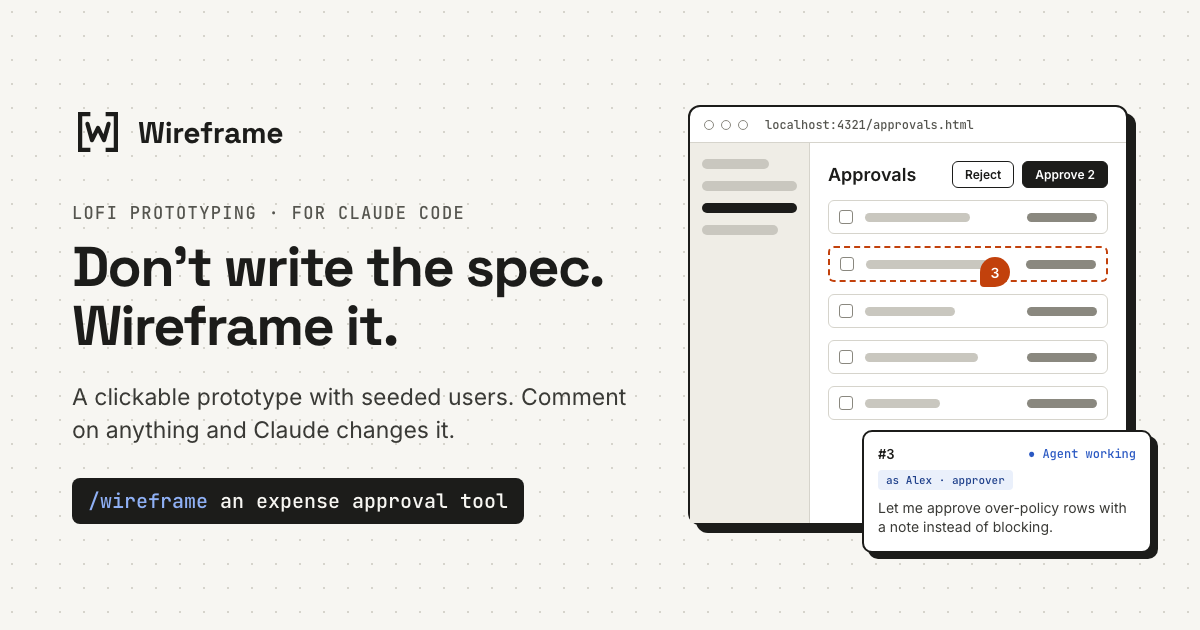
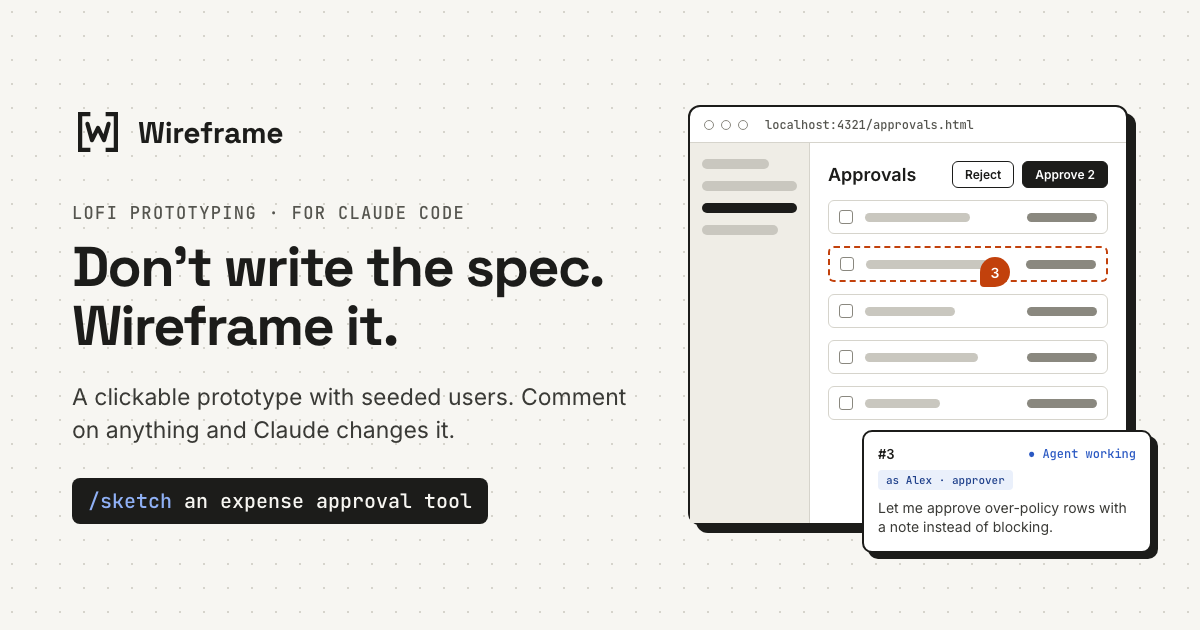
Rename the skill to sketch: /wireframe:sketch, typed as /sketch
The plugin and its only skill were both called wireframe, so the skill
showed up as /wireframe:wireframe. The skill is now "sketch", which
reads as a verb with a brief: /sketch an expense approval tool.

Every /wireframe command in the README, site, OG card, plugin
descriptions, installers, harness hints, templates and the headless
agent prompt now says /sketch. The skill still triggers on the old
/wireframe. wf docs reads from skills/sketch; the doctor accepts a
hand-copied skill under either name.

Changed region(s): [[0.0617, 0.754, 0.4625, 0.8444]]

diff --git a/site/index.html b/site/index.html
@@ -54,14 +54,14 @@
   </div>
   <div class="hero-row">
     <div class="hero-copy">
-      <p class="lead">A clickable wireframe explains an idea better than pages of requirements, and changing it is cheap. Type <span class="kbd">/wireframe</span> and a brief: Claude builds a working LoFi prototype with test users you can sign in as. Iterate with comments until everyone agrees, then spec it your way and design the HiFi screens.</p>
+      <p class="lead">A clickable wireframe explains an idea better than pages of requirements, and changing it is cheap. Type <span class="kbd">/sketch</span> and a brief: Claude builds a working LoFi prototype with test users you can sign in as. Iterate with comments until everyone agrees, then spec it your way and design the HiFi screens.</p>
       <div class="ctas">
         <a class="btn pri" href="#install">Get started</a>
         <a class="btn sec" href="library/">Browse the component library →</a>
       </div>
     </div>
     <div class="hero-term">
-<pre class="code" aria-label="Example session"><span class="p">›</span> /wireframe an expense approval tool for small finance teams
+<pre class="code" aria-label="Example session"><span class="p">›</span> /sketch an expense approval tool for small finance teams
 <span class="d">  ◇ Planning 6 screens · 3 collections · 6 users</span>
 <span class="d">  ◇ Seeding: empty, submitter, approver, admin, trial, viewer</span>
 <span class="d">  ◇ Building with the wf library · lint passed</span>
@@ -127,7 +127,7 @@
   <div class="wrap pad stack">
     <div class="intro"><span class="eyebrow">How it works</span><h2>From a brief to an agreed wireframe, then on to your spec.</h2></div>
     <div class="grid">
-      <div class="card step"><span class="num">01 · Brief</span><h3>/wireframe &lt;what you want&gt;</h3><p>A sentence is enough. If the brief is truly ambiguous, Claude asks one round of short questions. Otherwise it decides and writes its assumptions down.</p></div>
+      <div class="card step"><span class="num">01 · Brief</span><h3>/sketch &lt;what you want&gt;</h3><p>A sentence is enough. If the brief is truly ambiguous, Claude asks one round of short questions. Otherwise it decides and writes its assumptions down.</p></div>
       <div class="card step"><span class="num">02 · Build</span><h3>Working, not pictures</h3><p>Claude plans the screens, the data and the test users, then builds them from the wf library. Forms save, lists filter, permissions apply and every screen has its empty state.</p></div>
       <div class="card step agent"><span class="num">03 · Iterate</span><h3>Prompt or comment</h3><p>Share it, click through it, press C and comment on anything. The agent changes it while you watch. Repeat until everyone agrees.</p></div>
       <div class="card step"><span class="num">04 · Hand over</span><h3>Spec it your way</h3><p>The screens and WIREFRAME.md feed whatever you use next: a plain document, Spec Kit, OpenSpec or your team’s template. Designers get the agreed screens as the HiFi brief.</p></div>
@@ -165,7 +165,7 @@
     <div class="flow">
       <div><span class="k" style="color:var(--cmt-light)">1 · In the browser</span><b>Press C, click, write</b><span>The cursor turns into a speech bubble. Tick “Send to coding agent” and an orange pin marks the spot.</span></div>
       <div><span class="k">2 · On your computer</span><b>The wf helper queues it</b><span>Every comment is saved with the project. Ticked ones go to the agent’s inbox.</span></div>
-      <div style="border-color:var(--agent-light)"><span class="k" style="color:var(--agent-light)">3 · Live, on the comment</span><b>Watch the agent work</b><span>Your /wireframe session picks it up. If none is open, a short background run does. Either way, the steps stream onto the comment.</span></div>
+      <div style="border-color:var(--agent-light)"><span class="k" style="color:var(--agent-light)">3 · Live, on the comment</span><b>Watch the agent work</b><span>Your /sketch session picks it up. If none is open, a short background run does. Either way, the steps stream onto the comment.</span></div>
       <div><span class="k" style="color:var(--ok)">4 · Back on screen</span><b>Reload, reply, resolved</b><span>The page refreshes, the agent replies and the pin resolves. Every thread stays under Threads (T).</span></div>
     </div>
 <pre class="code" style="background:#2A2A27;font-size:13px">── Comment #3 · working ─────────────────────────
@@ -227,7 +227,7 @@ Let me approve over-policy rows with a note instead of blocking.
     <p class="lead">No npm installs, build tools or databases. Prototypes are plain HTML files in a folder. If your computer is missing anything, Claude explains it in one sentence and sets it up after you say yes.</p>
   </div>
   <div class="setup">
-    <div class="soft"><span class="tick" aria-hidden="true"><svg width="12" height="12" viewBox="0 0 24 24" fill="none" stroke="currentColor" stroke-width="3"><path d="M5 12.5l4.5 4.5L19 7"/></svg></span><div><b>Claude Code</b><span>Where you type /wireframe</span></div></div>
+    <div class="soft"><span class="tick" aria-hidden="true"><svg width="12" height="12" viewBox="0 0 24 24" fill="none" stroke="currentColor" stroke-width="3"><path d="M5 12.5l4.5 4.5L19 7"/></svg></span><div><b>Claude Code</b><span>Where you type /sketch</span></div></div>
     <div class="soft now"><span class="n">2</span><div><b>The wf helper</b><span>Runs prototypes on this computer. Brings its own runtime if needed, with no admin rights.</span></div></div>
     <div class="soft"><span class="n">3</span><div><b>A Wireframes folder</b><span>Each prototype gets its own folder you can zip and share</span></div></div>
     <div class="soft"><span class="n">4</span><div><b>Your first brief</b><span>Switch users and leave your first comment</span></div></div>
@@ -240,13 +240,13 @@ Let me approve over-policy rows with a note instead of blocking.
     <div class="install">
       <div><span class="num">1 · Add the plugin source</span><pre class="code"><span class="p">›</span> <span data-copy>/plugin marketplace add dobrinov/wireframe</span></pre></div>
       <div><span class="num">2 · Install it</span><pre class="code"><span class="p">›</span> <span data-copy>/plugin install wireframe@dobrinov</span></pre></div>
-      <div><span class="num">3 · Let Claude set up the rest</span><pre class="code"><span class="p">›</span> <span data-copy>/wireframe setup</span></pre></div>
+      <div><span class="num">3 · Let Claude set up the rest</span><pre class="code"><span class="p">›</span> <span data-copy>/sketch setup</span></pre></div>
     </div>
     <div class="soft cmds">
-      <div><span class="mono"><b>/wireframe</b> &lt;brief&gt;</span><span>Start a new prototype in ~/Wireframes</span></div>
-      <div><span class="mono"><b>/wireframe</b> open &lt;name&gt;</span><span>Pick up an earlier one</span></div>
-      <div><span class="mono"><b>/wireframe</b> users</span><span>Review and revise the seeded users</span></div>
-      <div><span class="mono"><b>/wireframe</b> doctor</span><span>Check and fix the setup in plain language</span></div>
+      <div><span class="mono"><b>/sketch</b> &lt;brief&gt;</span><span>Start a new prototype in ~/Wireframes</span></div>
+      <div><span class="mono"><b>/sketch</b> open &lt;name&gt;</span><span>Pick up an earlier one</span></div>
+      <div><span class="mono"><b>/sketch</b> users</span><span>Review and revise the seeded users</span></div>
+      <div><span class="mono"><b>/sketch</b> doctor</span><span>Check and fix the setup in plain language</span></div>
       <div><span class="mono"><b>U</b> · <b>C</b> · <b>T</b> · <b>H</b></span><span>In the prototype: switch user, comment, threads, hide toolbar</span></div>
       <div><span class="mono"><b>wf library</b></span><span>Open the live component gallery</span></div>
     </div>

diff --git a/lib/library-data.js b/lib/library-data.js
@@ -80,6 +80,6 @@ export default [
   {"id": "switcher", "name": "User switcher", "tag": "harness · U", "cat": "Harness", "harness": true, "desc": "Pick a seeded user and see why they exist, their numbers, plan, role and what to test.", "attrs": [["seed/users.json", "Source of every field shown"], ["why · tests · stats · flags", "Display fields"], ["addedIn · addedBecause", "Shows how the cast evolved"]], "events": "", "code": "{ \"id\": \"approver\", \"name\": \"Alex Reyes\", \"why\": \"…\", \"tests\": [\"Bulk approve\"] }", "states": "Opens automatically on first visit.", "pvStyle": "", "preview": "<div class=\"col\" style=\"width: 100%; gap: 5px; font-size: 11.5px\"><div class=\"row\" style=\"padding: 6px 8px; border: 2px solid #2B59C3; border-radius: 8px; background: #FFFFFF; box-shadow: 3px 3px 0 #2B59C3\"><span class=\"av\" style=\"background: #2B59C3; border-color: #2B59C3; color: #FFFFFF\">AR</span><span class=\"col\" style=\"gap: 0\"><b>Alex Reyes</b><span style=\"color: #55554F\">Full approval queue</span></span></div><div class=\"row\" style=\"padding: 6px 8px; border: 1.5px solid #D6D4CC; border-radius: 8px; background: #FFFFFF\"><span class=\"av\">EN</span><span class=\"col\" style=\"gap: 0\"><b>Elif Novak</b><span style=\"color: #55554F\">Zero data</span></span></div></div>", "live": ""},
   {"id": "pin", "name": "Comment pin", "tag": "harness · pin", "cat": "Harness", "harness": true, "desc": "Marks where a comment was left, anchored to the element.", "attrs": [["orange", "Open"], ["blue ↻", "With the agent"], ["white ✓", "Resolved (hidden unless shown)"]], "events": "", "code": "Click a pin to open its thread.", "states": "Re-anchors on scroll, resize and reload.", "pvStyle": "", "preview": "<div class=\"row\" style=\"gap: 16px\"><span style=\"width: 28px; height: 28px; border-radius: 50% 50% 50% 0; background: #C2410C; color: #FFFFFF; font-size: 12px; font-weight: 700; display: flex; align-items: center; justify-content: center; border: 2px solid #FFFFFF\">3</span><span style=\"width: 28px; height: 28px; border-radius: 50% 50% 50% 0; background: #2B59C3; color: #FFFFFF; font-size: 12px; font-weight: 700; display: flex; align-items: center; justify-content: center; border: 2px solid #FFFFFF\">↻</span><span style=\"width: 28px; height: 28px; border-radius: 50% 50% 50% 0; background: #FFFFFF; color: #55554F; font-size: 12px; font-weight: 700; display: flex; align-items: center; justify-content: center; border: 2px solid #8A887F; box-sizing: border-box\">✓</span></div>", "live": ""},
   {"id": "composer", "name": "Comment composer", "tag": "harness · C", "cat": "Harness", "harness": true, "desc": "Write a comment on the clicked element. Carries the user, screen and element automatically.", "attrs": [["Send to coding agent", "Checkbox; remembered between comments"], ["⌘↵", "Post"]], "events": "", "code": "POST /_wf/api/comments → .wireframe/inbox/ → wf watch", "states": "Orange focus ring marks comment UI.", "pvStyle": "", "preview": "<div class=\"col\" style=\"width: 100%; gap: 6px; background: #FFFFFF; border: 1.5px solid #1C1C1A; border-radius: 10px; padding: 8px; box-shadow: 4px 4px 0 #C2410C; font-size: 11px; box-sizing: border-box\"><span class=\"mono\" style=\"background: #EAF0FB; color: #1E3F8A; border-radius: 3px; padding: 1px 5px; align-self: flex-start; font-size: 10px\">as Alex · approver</span><div style=\"border: 1.5px solid #C2410C; border-radius: 6px; height: 26px\"></div><div class=\"row\" style=\"background: #EAF0FB; border-radius: 6px; padding: 5px 7px\"><span class=\"ck on\" style=\"background: #2B59C3; border-color: #2B59C3\">✓</span><b style=\"color: #1E3F8A\">Send to coding agent</b></div></div>", "live": ""},
-  {"id": "agent", "name": "Agent status", "tag": "harness · status", "cat": "Harness", "harness": true, "desc": "Tells you whether Claude Code is listening, working or offline.", "attrs": [["listening", "A /wireframe session is waiting for comments"], ["working on N", "Comments being handled"], ["offline", "Sent comments wait in the inbox"]], "events": "", "code": "Driven by wf watch connections.", "states": "—", "pvStyle": "", "preview": "<div class=\"col\" style=\"gap: 9px; font-size: 12.5px\"><span class=\"row\"><span style=\"width: 8px; height: 8px; border-radius: 50%; background: #2F8F4E\"></span>Agent listening</span><span class=\"row\"><span style=\"width: 8px; height: 8px; border-radius: 50%; background: #2B59C3\"></span>Agent working on 2</span><span class=\"row\"><span style=\"width: 8px; height: 8px; border-radius: 50%; border: 1.5px solid #8A887F; box-sizing: border-box\"></span>Agent offline</span></div>", "live": ""},
+  {"id": "agent", "name": "Agent status", "tag": "harness · status", "cat": "Harness", "harness": true, "desc": "Tells you whether Claude Code is listening, working or offline.", "attrs": [["listening", "A /sketch session is waiting for comments"], ["working on N", "Comments being handled"], ["offline", "Sent comments wait in the inbox"]], "events": "", "code": "Driven by wf watch connections.", "states": "—", "pvStyle": "", "preview": "<div class=\"col\" style=\"gap: 9px; font-size: 12.5px\"><span class=\"row\"><span style=\"width: 8px; height: 8px; border-radius: 50%; background: #2F8F4E\"></span>Agent listening</span><span class=\"row\"><span style=\"width: 8px; height: 8px; border-radius: 50%; background: #2B59C3\"></span>Agent working on 2</span><span class=\"row\"><span style=\"width: 8px; height: 8px; border-radius: 50%; border: 1.5px solid #8A887F; box-sizing: border-box\"></span>Agent offline</span></div>", "live": ""},
   {"id": "thread2", "name": "Comment thread", "tag": "harness · thread", "cat": "Harness", "harness": true, "desc": "A comment with its replies from you and the agent; resolve, reopen or send again.", "attrs": [["Reply", "Adds your reply"], ["Send to agent", "Queues it (again)"], ["Resolve · Reopen · Delete", "Status actions"]], "events": "", "code": "wf reply 3 \"Added Approve with note\" --resolve", "states": "Agent replies are blue.", "pvStyle": "", "preview": "<div class=\"col\" style=\"width: 100%; gap: 6px; font-size: 11.5px; background: #FFFFFF; border: 1.5px solid #1C1C1A; border-radius: 10px; padding: 8px; box-sizing: border-box\"><span class=\"row\"><b>#3</b><span class=\"mono\" style=\"background: #EAF0FB; color: #1E3F8A; border-radius: 3px; padding: 0 5px; font-size: 10px\">Agent working</span></span><span>Approve with a note instead of blocking.</span><span style=\"background: #EAF0FB; border-radius: 6px; padding: 5px 7px\"><b style=\"color: #1E3F8A\">Agent:</b> On it, adding the action.</span></div>", "live": ""},
 ];

diff --git a/src/cli.js b/src/cli.js
@@ -276,7 +276,7 @@ function cmdStatus(dir) {
 }
 
 function cmdDocs(name = 'index') {
-  const dir = path.join(KIT_ROOT, 'skills', 'wireframe', 'reference');
+  const dir = path.join(KIT_ROOT, 'skills', 'sketch', 'reference');
   const map = { index: null, style: 'STYLE.md', components: 'COMPONENTS.md', personas: 'PERSONAS.md', patterns: 'PATTERNS.md' };
   if (!map[name]) {
     console.log('Docs: ' + Object.keys(map).filter((k) => map[k]).join(', '));
@@ -296,7 +296,7 @@ function checks() {
   const major = Number(process.versions.node.split('.')[0]);
   add('runtime', major >= 18, `Runtime: Node ${process.versions.node}`, 'Run install/bootstrap.sh (Mac) or install/bootstrap.ps1 (Windows); it installs a private runtime for wf.');
   const wfPath = which('wf');
-  add('wf', !!wfPath, wfPath ? `wf command: ${wfPath}` : 'wf command is not on your PATH', 'Run: wf setup (or ask Claude: "/wireframe setup").');
+  add('wf', !!wfPath, wfPath ? `wf command: ${wfPath}` : 'wf command is not on your PATH', 'Run: wf setup (or ask Claude: "/sketch setup").');
   if (wfPath) {
     const pathDirs = (process.env.PATH || '').split(path.delimiter);
     if (!pathDirs.includes(shimDir()) && wfPath.startsWith(shimDir())) add('path', false, 'PATH', `Add ${shimDir()} to your PATH.`);
@@ -305,8 +305,8 @@ function checks() {
   add('claude', !!claude, claude ? `Claude Code: ${claude}` : 'Claude Code not found', 'Install Claude Code from https://claude.com/claude-code, then reopen this window.');
   add('home', fs.existsSync(DEFAULT_HOME), `Prototypes folder: ${DEFAULT_HOME}`, 'Run: wf setup');
   const installed = readJSON(path.join(os.homedir(), '.claude', 'plugins', 'installed_plugins.json'), {});
-  const hasPlugin = JSON.stringify(installed).includes('wireframe@') || fs.existsSync(path.join(os.homedir(), '.claude', 'skills', 'wireframe', 'SKILL.md'));
-  add('plugin', hasPlugin, hasPlugin ? '/wireframe is installed in Claude Code' : '/wireframe is not installed in Claude Code yet',
+  const hasPlugin = JSON.stringify(installed).includes('wireframe@') || ['sketch', 'wireframe'].some((s) => fs.existsSync(path.join(os.homedir(), '.claude', 'skills', s, 'SKILL.md')));
+  add('plugin', hasPlugin, hasPlugin ? '/sketch is installed in Claude Code' : '/sketch is not installed in Claude Code yet',
     `In Claude Code run: /plugin marketplace add ${KIT_ROOT}  then  /plugin install wireframe@dobrinov`);
   const proj = findProject(process.cwd());
   if (proj) {
@@ -328,7 +328,7 @@ function cmdDoctor(flags) {
   if (flags.json) return console.log(JSON.stringify({ ok: list.every((c) => c.ok), checks: list }, null, 2));
   for (const c of list) console.log(`${c.ok ? '✓' : '✗'} ${c.label}${c.fix ? `\n    → ${c.fix}` : ''}`);
   const bad = list.filter((c) => !c.ok).length;
-  console.log(bad ? `\n${bad} thing(s) to fix.` : '\nAll good. In Claude Code, type: /wireframe <what you want to build>');
+  console.log(bad ? `\n${bad} thing(s) to fix.` : '\nAll good. In Claude Code, type: /sketch <what you want to build>');
   if (bad) process.exitCode = 1;
 }
 

diff --git a/lib/harness.js b/lib/harness.js
@@ -234,7 +234,7 @@ class Harness {
       : working ? ['work', `Agent working on ${working}`]
       : queued && a.headlessAt ? ['wait', `${queued} waiting · background agent starts in ${dur(Date.now(), a.headlessAt)}`]
       : a.watching ? ['listen', 'Agent listening'] : queued ? ['wait', `${queued} waiting for agent`] : ['off', 'Agent offline'];
-    const tip = run ? 'See what the agent is doing' : a.watching || working ? 'Comments you send reach Claude Code right away.' : 'Run /wireframe in Claude Code to connect. Sent comments wait in the inbox until then.';
+    const tip = run ? 'See what the agent is doing' : a.watching || working ? 'Comments you send reach Claude Code right away.' : 'Run /sketch in Claude Code to connect. Sent comments wait in the inbox until then.';
     return [dot, label, tip, run];
   }
 
@@ -261,7 +261,7 @@ class Harness {
     if (c.status === 'queued') {
       const msg = a.watching ? 'Handing it to Claude Code…'
         : a.headlessAt ? `No Claude Code session is listening, so a background run starts in <b data-until="${esc(a.headlessAt)}">${dur(Date.now(), a.headlessAt)}</b>.`
-        : `No agent is listening. In Claude Code, run <code>/wireframe open ${esc(this.project)}</code> and it picks this up.`;
+        : `No agent is listening. In Claude Code, run <code>/sketch open ${esc(this.project)}</code> and it picks this up.`;
       return `<div class="act wait"><div class="ahead">${a.watching || a.headlessAt ? '<span class="spin"></span>' : ''}Waiting for the agent</div><div class="where">${msg}</div></div>`;
     }
     const last = c.agentRuns?.[c.agentRuns.length - 1];
@@ -276,7 +276,7 @@ class Harness {
     if (a === 'panel') this.openPanel();
     if (a === 'agent' && this.agent.run) { this.openThread(this.agent.run.ids[0]); return; }
     if (a === 'agent' && (this.agent.queued || this.agent.working)) { this.openPanel('agent'); return; }
-    if (a === 'agent') this.flash(this.agent.watching ? 'Claude Code is listening. Tick “Send to coding agent” on a comment and it gets it within seconds.' : 'No agent connected. In Claude Code, run /wireframe in this project and it starts listening. Comments you send now wait in the inbox.');
+    if (a === 'agent') this.flash(this.agent.watching ? 'Claude Code is listening. Tick “Send to coding agent” on a comment and it gets it within seconds.' : 'No agent connected. In Claude Code, run /sketch in this project and it starts listening. Comments you send now wait in the inbox.');
     if (a === 'more') this.moreMenu(btn);
   }
 

diff --git a/src/server.js b/src/server.js
@@ -134,7 +134,7 @@ export async function serve({ root, port = 4321, open = false, library = false, 
       if (!claude) { log('  ! No agent is listening and Claude Code was not found; comments stay queued.'); return; }
       for (const c of queued) updateComment(root, c.id, { status: 'working' });
       const prompt = [
-        'You are the /wireframe agent for the LoFi prototype in this folder. No interactive session was listening, so you were started to handle comments left on the prototype.',
+        'You are the /sketch agent for the LoFi prototype in this folder. No interactive session was listening, so you were started to handle comments left on the prototype.',
         'Read WIREFRAME.md, then follow the wireframe skill (style rules and components). For each comment below: make the change in screens/ or seed/, keep it LoFi and on-library, then run the reply command it shows with a one-line summary.',
         '', ...queued.map((c) => formatForAgent({ ...c, status: 'working' })),
       ].join('\n');

diff --git a/scripts/og-card.html b/scripts/og-card.html
@@ -54,7 +54,7 @@
     <div class="eyebrow">LoFi prototyping · for Claude Code</div>
     <h1>Don’t write the spec.<br>Wireframe it.</h1>
     <p>A clickable prototype with seeded users. Comment on anything and Claude changes it.</p>
-    <div class="cmd"><b>/wireframe</b> an expense approval tool</div>
+    <div class="cmd"><b>/sketch</b> an expense approval tool</div>
   </div>
   <div class="mock">
     <div class="chrome"><i></i><i></i><i></i><span>localhost:4321/approvals.html</span></div>

diff --git a/templates/project/screens/index.html b/templates/project/screens/index.html
@@ -14,7 +14,7 @@
   </wf-sidebar>
   <main>
     <wf-page>
-      <wf-page-header title="Welcome" subtitle="This prototype is empty. Describe what to build with /wireframe in Claude Code."></wf-page-header>
+      <wf-page-header title="Welcome" subtitle="This prototype is empty. Describe what to build with /sketch in Claude Code."></wf-page-header>
       <wf-card id="whoami"></wf-card>
     </wf-page>
   </main>

diff --git a/README.md b/README.md
@@ -4,10 +4,10 @@
 
 **Don’t write the spec. Wireframe it.** A clickable LoFi prototype communicates an idea better than pages of requirements, and it is cheap to change. When everyone agrees, use it as the input for your spec, in whatever format or tool you use (a plain document, Spec Kit, OpenSpec, a team template), and as the brief for HiFi screens.
 
-Type `/wireframe` and a one-line brief. Claude plans the screens, data and a cast of seeded test users, then builds a **working** LoFi prototype from the `wf` component library and opens it in your browser. Iterate by prompting in Claude Code, or by clicking anything in the prototype and leaving a comment. Tick **Send to coding agent** and the comment reaches the running Claude Code session, along with the user you were signed in as.
+Type `/sketch` and a one-line brief. Claude plans the screens, data and a cast of seeded test users, then builds a **working** LoFi prototype from the `wf` component library and opens it in your browser. Iterate by prompting in Claude Code, or by clicking anything in the prototype and leaving a comment. Tick **Send to coding agent** and the comment reaches the running Claude Code session, along with the user you were signed in as.
 
 ```
-/wireframe an expense approval tool for small finance teams
+/sketch an expense approval tool for small finance teams
 ```
 
 **Website and live component library:** https://dobrinov.github.io/wireframe/
@@ -16,9 +16,9 @@ Type `/wireframe` and a one-line brief. Claude plans the screens, data and a cas
 
 | Part | Where | What it does |
 |---|---|---|
-| `/wireframe` skill | `skills/wireframe/` | The workflow Claude follows: setup, plan, seed users, build, run, listen for comments, iterate, revise users |
+| `/sketch` skill (`/wireframe:sketch`) | `skills/sketch/` | The workflow Claude follows: setup, plan, seed users, build, run, listen for comments, iterate, revise users |
 | Component library | `lib/wf.css`, `lib/wf.js` | ~70 greyscale components as plain web components, plus a mock data store and helpers. No build step |
-| Style rules | `skills/wireframe/reference/STYLE.md` | Tokens, states, anatomy, and a recipe so new components match the existing ones |
+| Style rules | `skills/sketch/reference/STYLE.md` | Tokens, states, anatomy, and a recipe so new components match the existing ones |
 | Harness | `lib/harness.js` | Injected into every prototype: user switcher (U), comment mode (C), threads panel (T), pins, live agent activity, live reload |
 | `wf` helper | `bin/wf.js`, `src/` | Zero-dependency Node CLI: local server, comment inbox, agent bridge, lint, doctor, setup |
 | Installer | `install/bootstrap.sh`, `install/bootstrap.ps1` | For computers without Node: installs a private runtime in `~/.wireframe/runtime`, no admin rights needed |
@@ -33,17 +33,17 @@ Type `/wireframe` and a one-line brief. Claude plans the screens, data and a cas
    /plugin install wireframe@dobrinov
    ```
    (Working on the kit itself? Use `/plugin marketplace add /path/to/this/folder` instead.)
-2. Type `/wireframe setup`. Claude checks the computer, installs what's missing (asking first), and creates `~/Wireframes`. Nobody needs to touch a terminal.
+2. Type `/sketch setup`. Claude checks the computer, installs what's missing (asking first), and creates `~/Wireframes`. Nobody needs to touch a terminal.
 
 Already have Node 18+? `node bin/wf.js setup` does the same from a shell.
 
 ## Using it
 
-- `/wireframe <brief>`: new prototype in `~/Wireframes/<name>`, opened in the browser.
-- `/wireframe <brief>` inside a code repository: Claude reads the app first (pages, nav, data model, roles, copy), then wireframes the change on top of the real app. The prototype lives in the repository, in `wireframes/<name>/` by default, with its runtime files gitignored. The hand-over spec names the code each requirement touches.
+- `/sketch <brief>`: new prototype in `~/Wireframes/<name>`, opened in the browser.
+- `/sketch <brief>` inside a code repository: Claude reads the app first (pages, nav, data model, roles, copy), then wireframes the change on top of the real app. The prototype lives in the repository, in `wireframes/<name>/` by default, with its runtime files gitignored. The hand-over spec names the code each requirement touches.
 - Talk to Claude to change it, or comment in the browser: press **C**, click anything, write, and tick *Send to coding agent*.
 - Press **U** to switch seeded users. Each one shows a different state: empty, power user, each role, each plan, edge cases. Claude revises the cast as the prototype grows.
-- `/wireframe` inside a prototype folder resumes it. `/wireframe open <name>` opens an older one.
+- `/sketch` inside a prototype folder resumes it. `/sketch open <name>` opens an older one.
 
 ### How comments reach the agent
 ```

diff --git a/skills/sketch/SKILL.md b/skills/sketch/SKILL.md
@@ -1,9 +1,9 @@
 ---
-name: wireframe
-description: Build and iterate working LoFi wireframe prototypes from a one-line brief, with seeded test users, a user switcher and on-screen comments that come back to you. Use when the user types /wireframe, asks to "wireframe", "prototype" or "mock up" an app, flow or screen, wants to change an existing wireframe prototype, asks to set up or fix the wireframing tool, or when comments from a prototype arrive.
+name: sketch
+description: Build and iterate working LoFi wireframe prototypes from a one-line brief, with seeded test users, a user switcher and on-screen comments that come back to you. Use when the user types /sketch (or /wireframe:sketch, or the old /wireframe), asks to "wireframe", "prototype" or "mock up" an app, flow or screen, wants to change an existing wireframe prototype, asks to set up or fix the wireframing tool, or when comments from a prototype arrive.
 ---
 
-# /wireframe
+# /sketch
 
 You build clickable, **LoFi** prototypes with the `wf` library and keep improving them with the user. The person may not be technical: speak plainly, never ask them to type terminal commands, and do the setup yourself.
 
@@ -18,7 +18,7 @@ In the steps below, `wf` means whichever of these works.
 
 ## 1. What was asked
 
-Read the arguments after `/wireframe`:
+Read the arguments after `/sketch`:
 
 | Arguments | Do |
 |---|---|
@@ -41,7 +41,7 @@ A code repository means the nearest folder above with `.git`, holding app code. 
 2. For each failed check, say in one plain sentence what is missing, then fix it yourself after a yes:
    - `wf` → `node KIT/bin/wf.js setup` (makes `~/Wireframes`, installs the `wf` command, adds it to PATH).
    - `home` → same `setup` command.
-   - `plugin` → it is already running if you are reading this, so just mention `/wireframe` is ready.
+   - `plugin` → it is already running if you are reading this, so just mention `/sketch` is ready.
    - `claude` → cannot be missing while you run; ignore.
 3. **No Node.js** → explain: "The prototypes need a small runtime (about 50 MB). I'll install a private copy just for this tool. It won't change anything else on your computer." Then run `sh KIT/install/bootstrap.sh` on Mac/Linux or `powershell -ExecutionPolicy Bypass -File KIT/install/bootstrap.ps1` on Windows. It downloads Node into `~/.wireframe/runtime`, then runs `wf setup`.
 4. Re-run `wf doctor` and confirm in one line: "All set. Tell me what you'd like to sketch."
@@ -49,7 +49,7 @@ A code repository means the nearest folder above with `.git`, holding app code. 
 ## 3. New prototype
 
 1. **Understand the brief.** If it is really ambiguous (you can't tell who uses it or what the main job is), ask **one** round of at most 3 short questions. Otherwise decide, and list your assumptions in WIREFRAME.md and in your reply.
-2. **Read the references before writing any screen**, once per session: `KIT/skills/wireframe/reference/STYLE.md`, `COMPONENTS.md`, `PATTERNS.md`, `PERSONAS.md`.
+2. **Read the references before writing any screen**, once per session: `KIT/skills/sketch/reference/STYLE.md`, `COMPONENTS.md`, `PATTERNS.md`, `PERSONAS.md`.
 3. **Create:** `wf new "<short name>" --json`, or with `--dir <folder>` when 3b chose one. Work inside the folder it prints (by default `~/Wireframes/<slug>`).
 4. **Plan in WIREFRAME.md:** brief, assumptions, 4–8 screens for v1 (one HTML file each), the data model (collections and fields), seeded users and why each exists, and open questions. Keep v1 small and end to end. One flow that works beats ten dead screens.
 5. **Seed users and data** per PERSONAS.md. If roles act on the same records (approvals, hand-offs), use a shared world. If the brief is a new app embedded in an existing one, follow “Embedded apps” in PATTERNS.md. `seed/users.json` plus one `seed/<id>.json` per user (and `seed/shared.json` for data everyone sees). Make the data realistic, internally consistent, and specific to the domain. Each user's `stats` must match their seed.

diff --git a/examples/expense-approvals/WIREFRAME.md b/examples/expense-approvals/WIREFRAME.md
@@ -1,6 +1,6 @@
 # Ledgerline · Expense approvals
 
-> LoFi prototype built with /wireframe. This file is the agent's memory for the prototype.
+> LoFi prototype built with /sketch. This file is the agent's memory for the prototype.
 
 ## Brief
 "An expense approval tool for small finance teams."

diff --git a/templates/project/WIREFRAME.md b/templates/project/WIREFRAME.md
@@ -1,6 +1,6 @@
 # {{NAME}}
 
-> LoFi prototype built with /wireframe. Started {{DATE}}.
+> LoFi prototype built with /sketch. Started {{DATE}}.
 > This file is the agent's memory for the prototype: keep it current after every change.
 
 ## Brief
